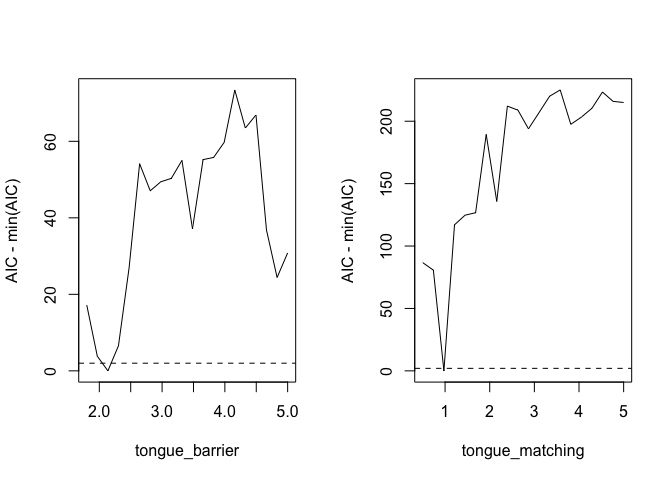
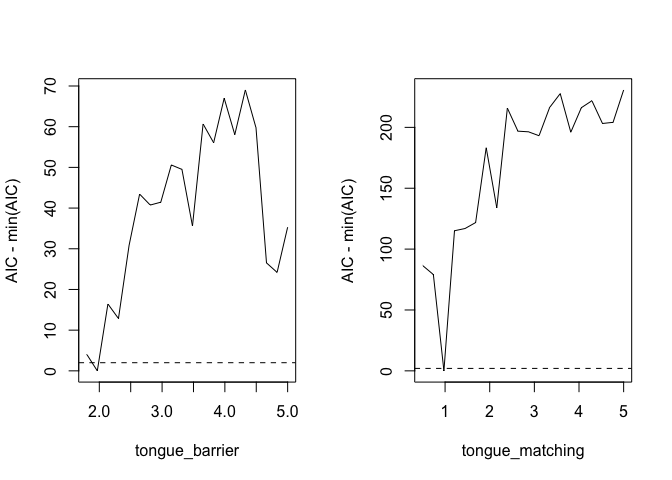
update readme

diff --git a/Readme.md b/Readme.md
@@ -213,7 +213,7 @@ sim_net_morph=simulate_ZI_matrix(
 ```
 
     ##                   Nestedness Complementary specialization 
-    ##                   23.5254456                    0.2932752
+    ##                   23.5254456                    0.2932923
 
 Now, let’s take a look at the simulated network. Does the structure
 coincide with your expectations and what could be improved?
@@ -419,9 +419,9 @@ matching.
 Here, we also introduce parameters (c1, c2, and c3), which serve as
 control knobs for how strongly each matrix affects the outcome. C-values
 close to 0 effectively deactivate the influence of the predictor matrix
-(i.e., all interaction probabilities approx. = 1). Higher c-values indicate that
-species have stronger preferences for, for instance, morphological
-matching partners (i.e. c1).
+(i.e., all interaction probabilities approx. = 1). Higher c-values
+indicate that species have stronger preferences for, for instance,
+morphological matching partners (i.e. c1).
 
 In this example, we calculate 20 variations of tongue lengths. For each
 combination of tongue lengths, we selected random values for c1-3,
@@ -471,7 +471,7 @@ abundance_matrix=abundance_model()^c3
 #prepare the data
 preds=mget(c("matching_matrix","competition_matrix","abundance_matrix","barrier_matrix"))
 
-#caluclate AIC and extract parameter values
+#calculate AIC and extract parameter values
 result=rbind(result,data.frame(AIC=calc_AIC(preds,net),tongue_matching,tongue_barrier,c1,c2,c3))
 
 } # end loop j
@@ -484,12 +484,12 @@ head(result)
 ```
 
     ##        AIC tongue_matching tongue_barrier   c1   c2   c3
-    ## 2 1770.242             0.5            1.8 1.40 0.45 1.34
-    ## 3 1138.738             0.5            1.8 0.48 0.92 1.09
-    ## 4 1583.805             0.5            1.8 1.22 0.39 1.15
-    ## 5 2182.561             0.5            1.8 1.66 0.52 0.19
-    ## 6 2333.007             0.5            1.8 1.99 0.87 0.61
-    ## 7 1802.258             0.5            1.8 1.50 0.59 1.47
+    ## 2 2215.511             0.5            1.8 1.92 0.86 1.83
+    ## 3  951.759             0.5            1.8 0.41 0.43 1.42
+    ## 4 3459.941             0.5            1.8 0.37 1.95 1.59
+    ## 5 1182.443             0.5            1.8 0.45 1.00 0.68
+    ## 6 1149.605             0.5            1.8 0.97 1.02 0.43
+    ## 7 2128.593             0.5            1.8 0.26 1.20 1.96
 
 Now, we can visualise the best-fitting models and determine the optimal
 tongue lengths and c-values, if they exist. Since the previous function
@@ -506,42 +506,25 @@ lines correspond to delta AIC \< 2 (i.e. best-fitting models)
 parameter="tongue_barrier"
 sub=aggregate_by_category(df = result,cat_col = paste(parameter),cont_col = "AIC",func = min)
 plot(AIC-min(AIC)~tongue_barrier,type="lines",data=sub)
-```
-
-    ## Warning in plot.xy(xy, type, ...): plot type 'lines' will be truncated to first
-    ## character
-
-``` r
 abline(h=2,lty=2)
 
 parameter="tongue_matching"
 sub=aggregate_by_category(df = result,cat_col = paste(parameter),cont_col = "AIC",func = min)
 plot(AIC-min(AIC)~tongue_matching,type="lines",data=sub)
-```
-
-    ## Warning in plot.xy(xy, type, ...): plot type 'lines' will be truncated to first
-    ## character
-
-``` r
 abline(h=2,lty=2)
 ```
 
 ![](Readme_files/figure-gfm/unnamed-chunk-20-1.png)<!-- -->
 
 Now lets plot the c-values. The red lines are polinomial regressions
-which we use to select the best-fitting c-value
+which we use to select the best-fitting c-value (i.e. the value on the
+x-axis matching the bottom of the red curve).
 
 ``` r
  par(mfrow=c(1,3))
 parameter="c1"
 sub=aggregate_by_category(df = result,cat_col = paste(parameter),cont_col = "AIC",func = min)
 plot(AIC-min(AIC)~c1,type="lines",data=sub)
-```
-
-    ## Warning in plot.xy(xy, type, ...): plot type 'lines' will be truncated to first
-    ## character
-
-``` r
 abline(h=2,lty=2)
 
 #fit polynomial regression
@@ -560,12 +543,6 @@ best_c1=x_seq[which(y_pred==min(y_pred))]
 
 sub=aggregate_by_category(df = result,cat_col = "c2",cont_col = "AIC",func = min)
 plot(AIC-min(AIC)~c2,type="lines",data=sub)
-```
-
-    ## Warning in plot.xy(xy, type, ...): plot type 'lines' will be truncated to first
-    ## character
-
-``` r
 abline(h=2,lty=2)
 
 x=sub$c2
@@ -583,12 +560,6 @@ best_c2=x_seq[which(y_pred==min(y_pred))]
 
 sub=aggregate_by_category(df = result,cat_col = "c3",cont_col = "AIC",func = min)
 plot(AIC-min(AIC)~c3,type="lines",data=sub)
-```
-
-    ## Warning in plot.xy(xy, type, ...): plot type 'lines' will be truncated to first
-    ## character
-
-``` r
 abline(h=2,lty=2)
 
 x=sub$c3
@@ -609,8 +580,9 @@ best_c3=x_seq[which(y_pred==min(y_pred))]
 You can plot the predicted network based on our best fitting model and
 compare it to the empirical. We simulate 1000 random interactions and
 calculate the mean number of interactions. Average number of
-interactions less than 0.1 are set to 0. Let’s compare the simulation to
-the empirical
+interactions less than 0.1 are set to 0.
+
+Let’s compare the simulation to the empirical
 
 As you can see there are still room for improvement
 
